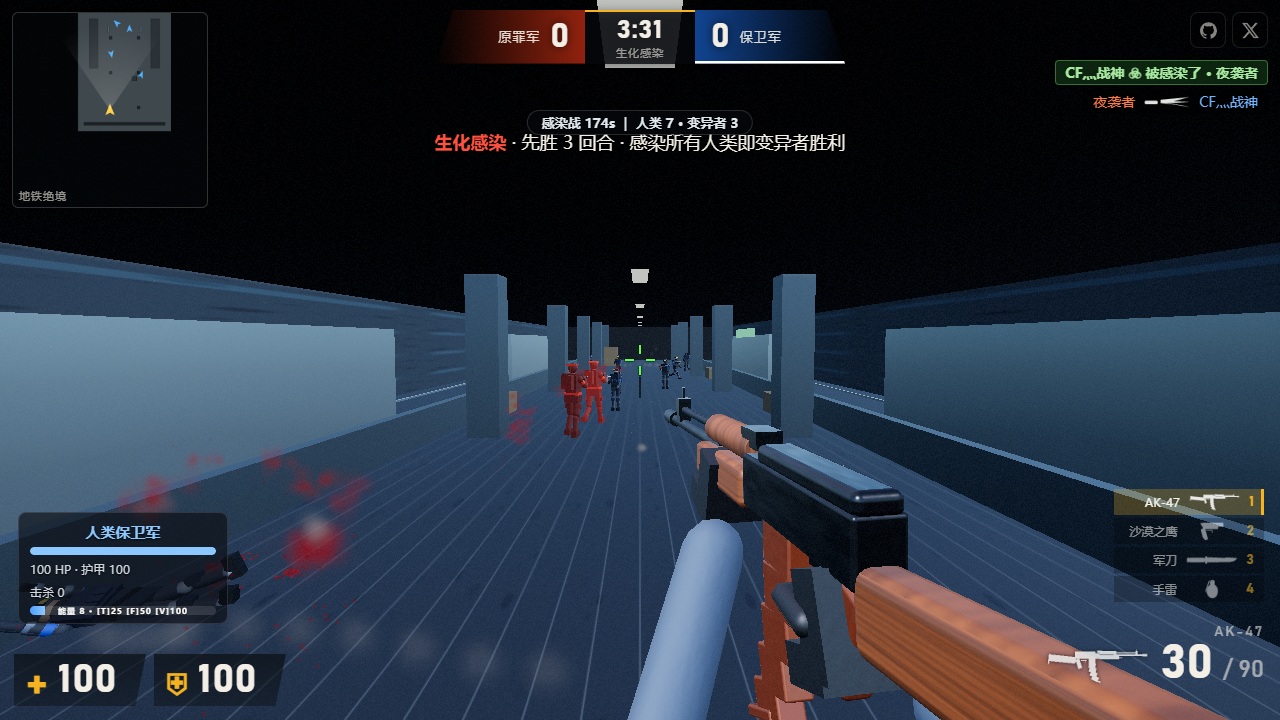
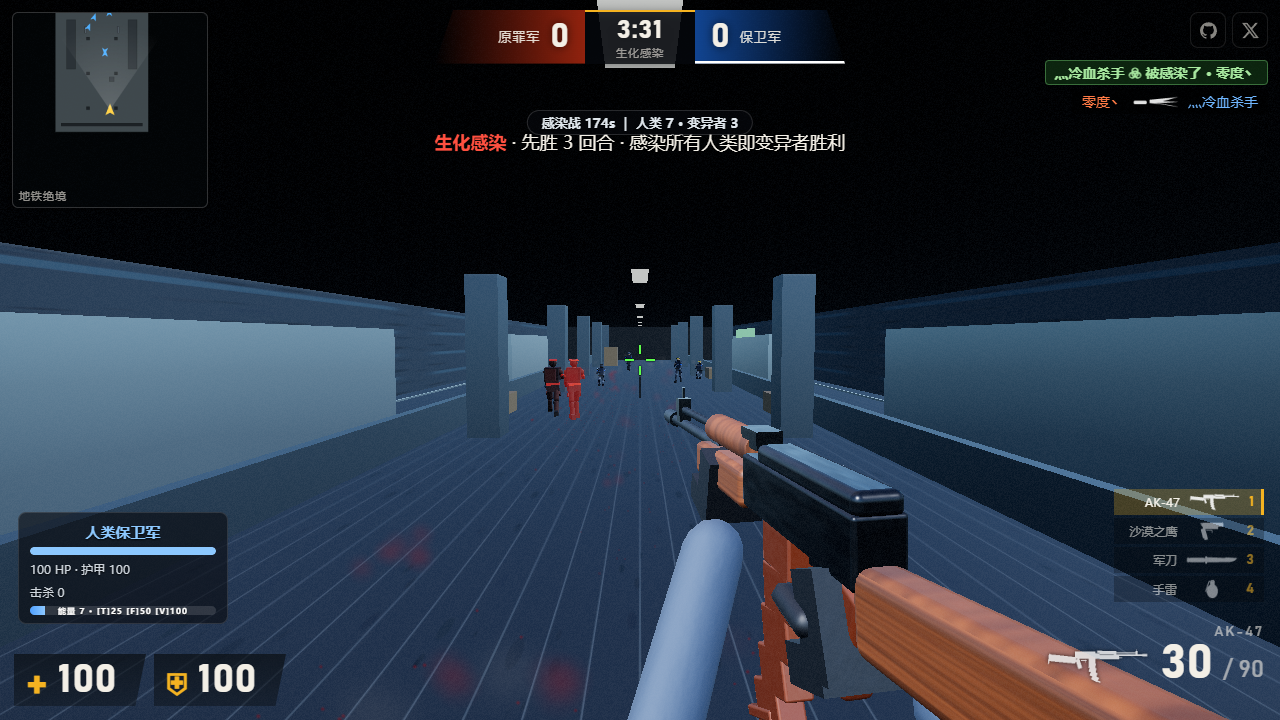
V51: 新变异体爬行者（蜥蜴巨躯 3600HP/躯体减伤40%/爆头1.5x定身0.9s/纯属性无技能/Digit0变身/沼泽绿皮）+ rules 76断言 + probe v47 + v7卡数6

diff --git a/cf-transport-ship/src/woz/integrate.js b/cf-transport-ship/src/woz/integrate.js
@@ -1086,6 +1086,7 @@ export class WozManager {
 
   // BOT 用技决策表（V25）：按职业语境判定（纯逻辑，可单测）
   botSkillWant(st, dist, hasLos) {
+    if (st.cls === MutantClass.Crawler) return false; // 纯属性型无技能
     if (st.cls === MutantClass.Bomber) return st.hp < this.effMaxHp(st) * 0.45 && dist < 9; // 残血冲人堆自爆
     if (st.cls === MutantClass.Souleater) return dist < WOZ.blindWailRange * 0.9;           // 尖啸开团致盲
     if (st.cls === MutantClass.Nightrunner) return dist > 5 && dist < 16;                    // 疾冲拉近
@@ -1161,8 +1162,8 @@ export class WozManager {
     if (p.consumePressed('KeyG') || p.consumePressed('KeyF')) {
       if (!rules.tryUseSkill(p.id)) g.hud.toast(`技能冷却中 ${(st.skillCharge * 100) | 0}%`, 1);
     }
-    // 5/6/7/8/9 子体变身
-    for (const [code, cls] of [['Digit5', MutantClass.Nightrunner], ['Digit6', MutantClass.Souleater], ['Digit7', MutantClass.Devourer], ['Digit8', MutantClass.Tangler], ['Digit9', MutantClass.Bomber]]) {
+    // 5/6/7/8/9/0 子体变身（V51 增爬行者）
+    for (const [code, cls] of [['Digit5', MutantClass.Nightrunner], ['Digit6', MutantClass.Souleater], ['Digit7', MutantClass.Devourer], ['Digit8', MutantClass.Tangler], ['Digit9', MutantClass.Bomber], ['Digit0', MutantClass.Crawler]]) {
       if (p.consumePressed(code) && rules.setMutantClass(p.id, cls)) this.playerClassChosen = true;
     }
   }
@@ -1402,7 +1403,7 @@ export class WozManager {
     a.soldier.setWeapon('claw');
     a.soldier.root.position.copy(a.pos);
     a.soldier.root.visible = !a.isPlayer;
-    a.soldier.root.scale.setScalar(st.isMother ? 1.28 : st.cls === MutantClass.Devourer ? 1.18 : 1.08);
+    this.applyClassVisual(a);
     if (a.isPlayer) {
       a.deathCam = null;
       g.vm.equip('claw', 0.4);
@@ -1460,6 +1461,36 @@ export class WozManager {
   }
 
   // ================= 规则层回调 =================
+  // V51 爬行者部位伤害：躯体 0.6 / 爆头 1.5 并定身 0.9s（原作：抗击打，爆头停止移动）
+  classPartDamage(v, part) {
+    const rules = this.rules;
+    if (!rules || !v || v.id >= rules.playerCount) return 1;
+    const st = rules.state(v.id);
+    if (st.side !== 'mutant' || st.cls !== MutantClass.Crawler) return 1;
+    if (part === 'head') {
+      if (v.alive) v.rootT = Math.max(v.rootT || 0, WOZ.crawlerHeadStop);
+      return WOZ.crawlerHeadMul;
+    }
+    return WOZ.crawlerBodyArmor;
+  }
+
+  isClass(v, key) {
+    const rules = this.rules;
+    if (!rules || !v || v.id >= rules.playerCount) return false;
+    return rules.state(v.id).cls === key;
+  }
+
+  // 职业外观：体型 + 皮肤乘法染色（新 Soldier 材质为白，restoreHuman 重建时自动复位）
+  applyClassVisual(a) {
+    const st = this.rules?.state(a.id);
+    if (!st || st.side !== 'mutant') return;
+    const cls = st.cls;
+    const scale = st.isMother ? 1.28 : cls === MutantClass.Crawler ? 1.24 : cls === MutantClass.Devourer ? 1.18 : 1.08;
+    a.soldier.root.scale.setScalar(scale);
+    if (cls === MutantClass.Crawler) a.soldier.material.color.setHex(0x9cc08a); // 蜥蜴沼泽绿
+    else a.soldier.material.color.setHex(0xffffff);
+  }
+
   onMutantConverted(id, cls, isMother, rebirth) {
     // 母体：爆发瞬间直接落地引擎形态；再变异：即时重生
     if (rebirth || isMother) {
@@ -1475,7 +1506,7 @@ export class WozManager {
     if (!a) return;
     const st = this.rules.state(id);
     a.hp = Math.max(1, st.hp);   // 规则层已按新职业重置血池
-    a.soldier.root.scale.setScalar(st.cls === MutantClass.Devourer ? 1.18 : 1.08); // 体型同步
+    this.applyClassVisual(a);    // 体型 + 职业染色同步（V51）
     if (this._autoCls === id) { this._autoCls = -1; } // 感染时的自动默认职业不重复播报
     else g.hud.eventFeed(`${a.name} 进化为 <b>${CLASS_LABEL[cls] || '变异者'}</b>`, 'evo');
     if (a.isPlayer) g.hud.toast(`已变身：<b style="color:#ff7040">${CLASS_LABEL[cls]}</b>`, 2);
@@ -1489,7 +1520,7 @@ export class WozManager {
     if (!a || a.isPlayer || this.rules.state(victimId).isMother) return;
     this._autoCls = victimId;
     const r = Math.random();
-    const changed = this.rules.setMutantClass(victimId, r < 0.35 ? MutantClass.Nightrunner : r < 0.55 ? MutantClass.Souleater : r < 0.72 ? MutantClass.Devourer : r < 0.87 ? MutantClass.Tangler : MutantClass.Bomber);
+    const changed = this.rules.setMutantClass(victimId, r < 0.3 ? MutantClass.Nightrunner : r < 0.5 ? MutantClass.Souleater : r < 0.66 ? MutantClass.Devourer : r < 0.8 ? MutantClass.Tangler : r < 0.92 ? MutantClass.Bomber : MutantClass.Crawler);
     if (!changed) this._autoCls = -1; // 职业未变（默认夜行者）时清除抑制标记，避免吃掉后续手动播报
   }
 

diff --git a/cf-transport-ship/src/woz/hud.js b/cf-transport-ship/src/woz/hud.js
@@ -8,6 +8,7 @@ const CLASS_PICK = [
   { c: 'devourer', key: '7', name: '猎食者', desc: '投掷斧头 · 远程斩杀', sp: 2, hp: 4, sk: 4 },
   { c: 'tangler', key: '8', name: '缠绕者', desc: '触须缠绕 · 拖拽撕碎防线', sp: 3, hp: 4, sk: 5 },
   { c: 'bomber', key: '9', name: '爆破者', desc: '自爆冲锋 · 感染爆炸清场', sp: 3, hp: 5, sk: 5 },
+  { c: 'crawler', key: '0', name: '爬行者', desc: '蜥蜴巨躯 · 躯体坚韧 爆头致停', sp: 1, hp: 5, sk: 0 },
 ];
 const statRow = (label, v) => `<div class="stat"><span>${label}</span><i><b style="width:${v * 20}%"></b></i></div>`;
 
@@ -215,11 +216,19 @@ export class WozHud {
         this.el.ring.classList.add('ready');
       } else {
         const sk = skillOf(st.cls);
-        const pct = Math.max(0, Math.min(1, st.skillCharge));
-        this.el.ringChar.textContent = (SKILL_LABEL[sk] || '?').slice(0, 1);
-        this.el.ringTxt.textContent = st.skillActive ? '生效中' : st.skillCharge >= 1 ? '就绪 [G]' : `${(pct * 100) | 0}%`;
-        this.el.ring.style.background = `conic-gradient(${st.skillCharge >= 1 ? '#ffd24a' : '#ff8a5c'} ${pct * 360}deg, rgba(255,255,255,.16) 0deg)`;
-        this.el.ring.classList.toggle('ready', st.skillCharge >= 1 && !st.skillActive);
+        if (sk === 'none') {
+          // 纯属性型变异者（V51 爬行者）：无技能槽，环显示被动特性
+          this.el.ringChar.textContent = '鳞';
+          this.el.ringTxt.textContent = '躯体坚韧 · 爆头致停';
+          this.el.ring.style.background = 'conic-gradient(#8fc88a 360deg, rgba(255,255,255,.16) 0deg)';
+          this.el.ring.classList.add('ready');
+        } else {
+          const pct = Math.max(0, Math.min(1, st.skillCharge));
+          this.el.ringChar.textContent = (SKILL_LABEL[sk] || '?').slice(0, 1);
+          this.el.ringTxt.textContent = st.skillActive ? '生效中' : st.skillCharge >= 1 ? '就绪 [G]' : `${(pct * 100) | 0}%`;
+          this.el.ring.style.background = `conic-gradient(${st.skillCharge >= 1 ? '#ffd24a' : '#ff8a5c'} ${pct * 360}deg, rgba(255,255,255,.16) 0deg)`;
+          this.el.ring.classList.toggle('ready', st.skillCharge >= 1 && !st.skillActive);
+        }
       }
     } else {
       this.el.big.classList.add('off');
@@ -288,6 +297,7 @@ export class WozHud {
         <button data-c="devourer">[7] 猎食者</button>
         <button data-c="tangler">[8] 缠绕者</button>
         <button data-c="bomber">[9] 爆破者</button>
+        <button data-c="crawler">[0] 爬行者</button>
       `;
       this.classBtns.addEventListener('click', (e) => {
         const c = e.target?.dataset?.c;

diff --git a/cf-transport-ship/src/woz/rules.js b/cf-transport-ship/src/woz/rules.js
@@ -1,6 +1,6 @@
 // WOZ 规则状态机：纯逻辑、零渲染依赖，可在 node 下直接断言测试。
 // 阵营约定：人类侧 = 'GR'（保卫者），变异者侧 = 'BL'（潜伏者）。
-import { WOZ, MutantClass, skillOf, skillDuration , skillCooldownSec } from './config.js';
+import { WOZ, MutantClass, MutantSkill, skillOf, skillDuration , skillCooldownSec } from './config.js';
 
 // xorshift32 确定性随机（同种子同结果，供测试与回放）
 export class WozRng {
@@ -231,6 +231,7 @@ export class WozRules {
     if (p.cls === MutantClass.Devourer) return WOZ.devourerHp;
     if (p.cls === MutantClass.Tangler) return WOZ.tanglerHp;
     if (p.cls === MutantClass.Bomber) return WOZ.bomberHp;
+    if (p.cls === MutantClass.Crawler) return WOZ.crawlerHp;
     return WOZ.childHp;
   }
 
@@ -357,6 +358,7 @@ export class WozRules {
     const p = this.players[id];
     if (this.phase !== 'battle' || !p.alive || p.side !== 'mutant') return false;
     if (p.cls === MutantClass.None) return false;
+    if (skillOf(p.cls) === MutantSkill.None) return false; // 纯属性型（爬行者）无技能
     if (p.skillActive || p.skillCharge < 1) return false;
     p.skillCharge = 0;
     p.skillActive = true;
@@ -420,6 +422,7 @@ export class WozRules {
     if (!p) return WOZ.mutantSpeed; // 尸潮 AI 等非规则层角色
     let m = WOZ.mutantSpeed;
     if (p.cls === MutantClass.Nightrunner) m += WOZ.nightrunnerSpeed;
+    if (p.cls === MutantClass.Crawler) m -= WOZ.crawlerSlow; // 巨躯迟缓
     if (p.skillActive && p.cls === MutantClass.Nightrunner) m *= WOZ.dashSpeed * 0.55;
     if (this.motherRageActive() && p.cls !== MutantClass.Mother) m *= 1.25;
     if (p.skillActive && p.cls === MutantClass.Mother) m *= 1.35;

diff --git a/cf-transport-ship/src/woz/config.js b/cf-transport-ship/src/woz/config.js
@@ -95,6 +95,11 @@ export const WOZ = {
   selfDestructRadius: 7,
   selfDestructFuse: 1.2,
   selfDestructSpeed: 1.3,   // 引爆冲锋期间移速加成
+  crawlerHp: 3600,          // 爬行者：蜥蜴基因巨躯（调研：2米/400斤，血量惊人，纯属性型无技能）
+  crawlerSlow: 0.05,        // 移速低于普通变异体
+  crawlerBodyArmor: 0.6,    // 躯体减伤 40%（调研：抗击打强，移动中被射击影响不大）
+  crawlerHeadMul: 1.5,      // 爆头额外伤害
+  crawlerHeadStop: 0.9,     // 爆头定身时长（调研：被击中头部会停止移动）
 };
 
 // ---- 生化对抗：人类攻方占领战术据点，变异者守方 ----
@@ -157,6 +162,7 @@ export const MutantClass = {
   Devourer: 'devourer',
   Tangler: 'tangler',
   Bomber: 'bomber',
+  Crawler: 'crawler',
 };
 
 export const MutantSkill = {
@@ -177,6 +183,7 @@ export const CLASS_LABEL = {
   [MutantClass.Devourer]: '猎食者',
   [MutantClass.Tangler]: '缠绕者',
   [MutantClass.Bomber]: '爆破者',
+  [MutantClass.Crawler]: '爬行者',
 };
 
 export const SKILL_LABEL = {
@@ -196,6 +203,7 @@ export function skillOf(cls) {
   if (cls === MutantClass.Devourer) return MutantSkill.AxeThrow;
   if (cls === MutantClass.Tangler) return MutantSkill.Entangle;
   if (cls === MutantClass.Bomber) return MutantSkill.SelfDestruct;
+  // 爬行者：原作纯属性型变异者，无技能（17173 变异者技能解析）
   return MutantSkill.None;
 }
 

diff --git a/cf-transport-ship/src/game.js b/cf-transport-ship/src/game.js
@@ -797,6 +797,8 @@ export class Game {
     let hpD = amt;
     if (att && att.dmgBuff > 1) hpD *= att.dmgBuff; // 连杀狂怒（V43）
     if (this.woz) hpD *= this.woz.adjustDamage(v, att);
+    // V51 爬行者：蜥蜴巨躯——躯体减伤 40%，爆头 1.5 倍伤并定身（原作：抗射击/爆头停止移动）
+    if (this.woz) hpD *= this.woz.classPartDamage(v, part);
     if (v.armor > 0 && part !== 'leg') {
       const ap = def?.armorPen ?? 0.75;
       hpD = amt * ap;

diff --git a/cf-transport-ship/WOZ_README.md b/cf-transport-ship/WOZ_README.md
@@ -17,12 +17,13 @@
 ## 变异者
 
 - **利爪**：左键轻击 40 / 右键重击 75，受视线遮挡约束（不可隔墙命中），出手解除出生保护
-- **五变异者**（原作名单：噬魂者/猎食者/夜行者/缠绕者/爆破者；子体变身 **键盘 5/6/7/8/9** 快捷切换，右下按钮可点；技能 **G/F** 均可释放）。技能机制（调研对齐原作）：**感染后技能立即可用，使用后进入各自独立冷却**，受伤/吞噬可加速回充：
+- **六变异者**（原作名单：噬魂者/猎食者/夜行者/缠绕者/爆破者 + AI 型爬行者[可附身]；子体变身 **键盘 5/6/7/8/9/0** 快捷切换，右下按钮可点；技能 **G/F** 均可释放）。技能机制（调研对齐原作）：**感染后技能立即可用，使用后进入各自独立冷却**，受伤/吞噬可加速回充：
   - **[5] 夜行者**：最速，技能[疾冲 冷却 15s]——向前突进
   - **[6] 噬魂者**：技能[致盲尖啸 冷却 25s]——18m 内人类致盲 3s
   - **[7] 猎食者**：4000 HP 坦克，技能[投掷斧头 冷却 20s]——300 伤旋转斧抛射（重力弧线，可被墙体拦截）
   - **[8] 缠绕者**：1800 HP，技能[缠绕 冷却 6s·原作"可随时使用"]——准星 14° 内 22m 触须抓取：定身 1.2s + 拖拽 9m/s + 60 伤
   - **[9] 爆破者**：2200 HP，技能[自爆 冷却 30s]——点燃引信 1.2s 冲锋（移速 ×1.3），爆炸 7m 半径 700 伤（距离衰减），击杀走感染链，自身阵亡
+  - **[0] 爬行者**（V51）：3600 HP 蜥蜴巨躯（体型 1.24/沼泽绿皮），**纯属性型无技能**（原作设定）——躯体减伤 40%、爆头 1.5× 伤并**定身 0.9s**（原作"抗击打强/被爆头停止移动"）
 - **吞噬进化**：E 键吞噬变异者尸体，+300 血、+1 进化点（每点 +2% 伤害 +50 血上限）
 - **进化阶段**（原作：防御/攻击/再次变异/特殊进化）：吞噬 3 次=一阶攻击 +15%；6 次=二阶减伤 15%；9 次=三阶特殊进化（HP 上限 +500 / 移速 +8% / 体型红光）
 - 母体 3000 HP，感染人类回 500 血，技能[狂暴咆哮 冷却 30s]；BOT 子体感染后随机变身职业并按语境用技
@@ -53,7 +54,7 @@
 | G | 丢弃当前主/副武器 | 释放技能（充能满后；母体=狂暴咆哮） |
 | E | 拾取地上的武器 | 吞噬附近变异者尸体 / **处决**残血人类（≤40HP 近身，必感染+200 血） |
 | X | 按住 2s 使用急救包自疗（+60，限带 1） | — |
-| 5 / 6 / 7 / 8 / 9 | — | 变身 夜行者 / 噬魂者 / 猎食者 / 缠绕者 / 爆破者 |
+| 5 / 6 / 7 / 8 / 9 / 0 | — | 变身 夜行者 / 噬魂者 / 猎食者 / 缠绕者 / 爆破者 / 爬行者 |
 | V | 必杀技·狂暴（满 4 档解锁，5s 伤害 ×1.5） | — |
 | B | 购买/换装（购买期） | — |
 | Tab / Esc | 计分板 / 菜单 | 同左 |
@@ -215,7 +216,9 @@ scripts/          # smoke / woz-e2e / woz-e2e2 / woz-balance 四套自动化
 | V48 | **噬魂者分裂**（调研对齐 17173"可复制分裂个体"）：致盲尖啸附带召唤 2 只紫灰分裂体（400HP/20s 消散） |
 | V49 | 打击感细节：爆头击杀头部血爆 + 0.09s 强化顿帧 |
 | V50 | 文档同步 + 最终全量回归 |
+| V50.5 | **WOZ_RESEARCH.md 调研档案**：变异者全名单（爬行者/断头者/悲惨行者新发现）/模式体系/三大类型分类/外形描述/来源清单，V51–V70 计划池 |
+| V51 | **新变异体·爬行者**（调研对齐：蜥蜴基因/2米400斤/纯属性型无技能/抗击打/爆头停止移动）：3600HP、体型 1.24、沼泽绿皮；躯体减伤 40%、爆头 1.5× 并定身 0.9s；键盘 **0** 变身、职业卡第 6 张、BOT 感染随机池 8% |
 
-技能机制（调研对齐原作）：**感染后技能立即可用，使用后进入各自独立冷却**——疾冲 15s / 致盲尖啸 25s / 投掷斧头 20s / 缠绕 6s（原作"可随时使用"）/ 自爆 30s / 狂暴咆哮 30s；受伤与吞噬加速回充；技能键 **G/F**。
+技能机制（调研对齐原作）：**感染后技能立即可用，使用后进入各自独立冷却**——疾冲 15s / 致盲尖啸 25s / 投掷斧头 20s / 缠绕 6s（原作"可随时使用"）/ 自爆 30s / 狂暴咆哮 30s；受伤与吞噬加速回充；技能键 **G/F**。爬行者无技能槽（技能环显示"躯体坚韧"被动）。
 
 武器总量（V50）：**23 主武器（含 M79/火焰喷射器/十字弩）** + 3 副武器 + 4 近战 + 6 投掷 = **36 件**。
